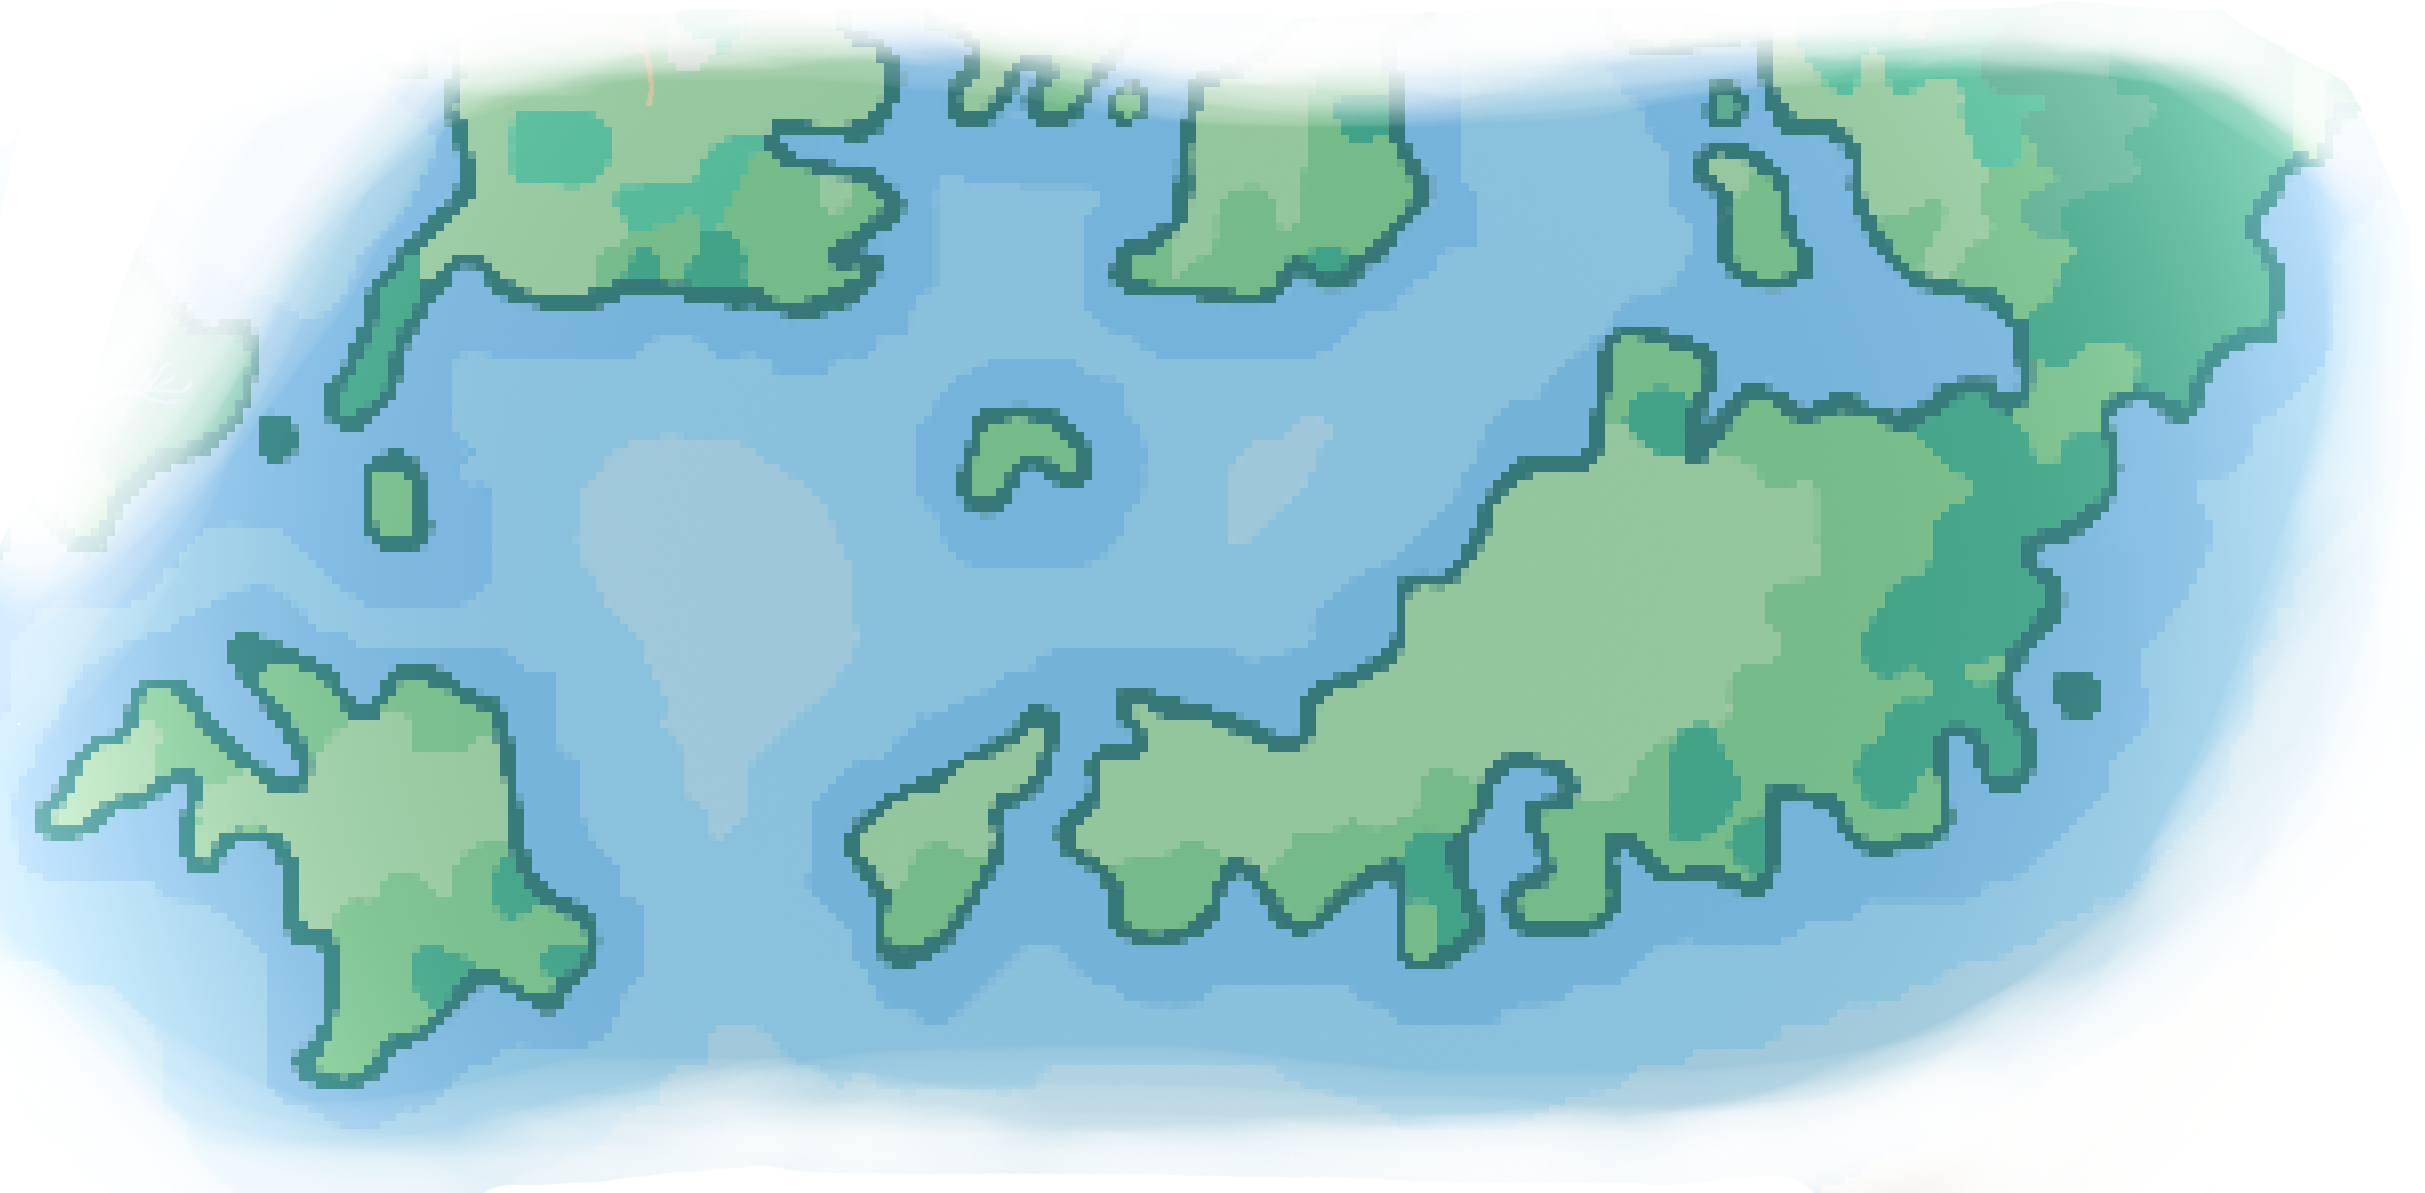
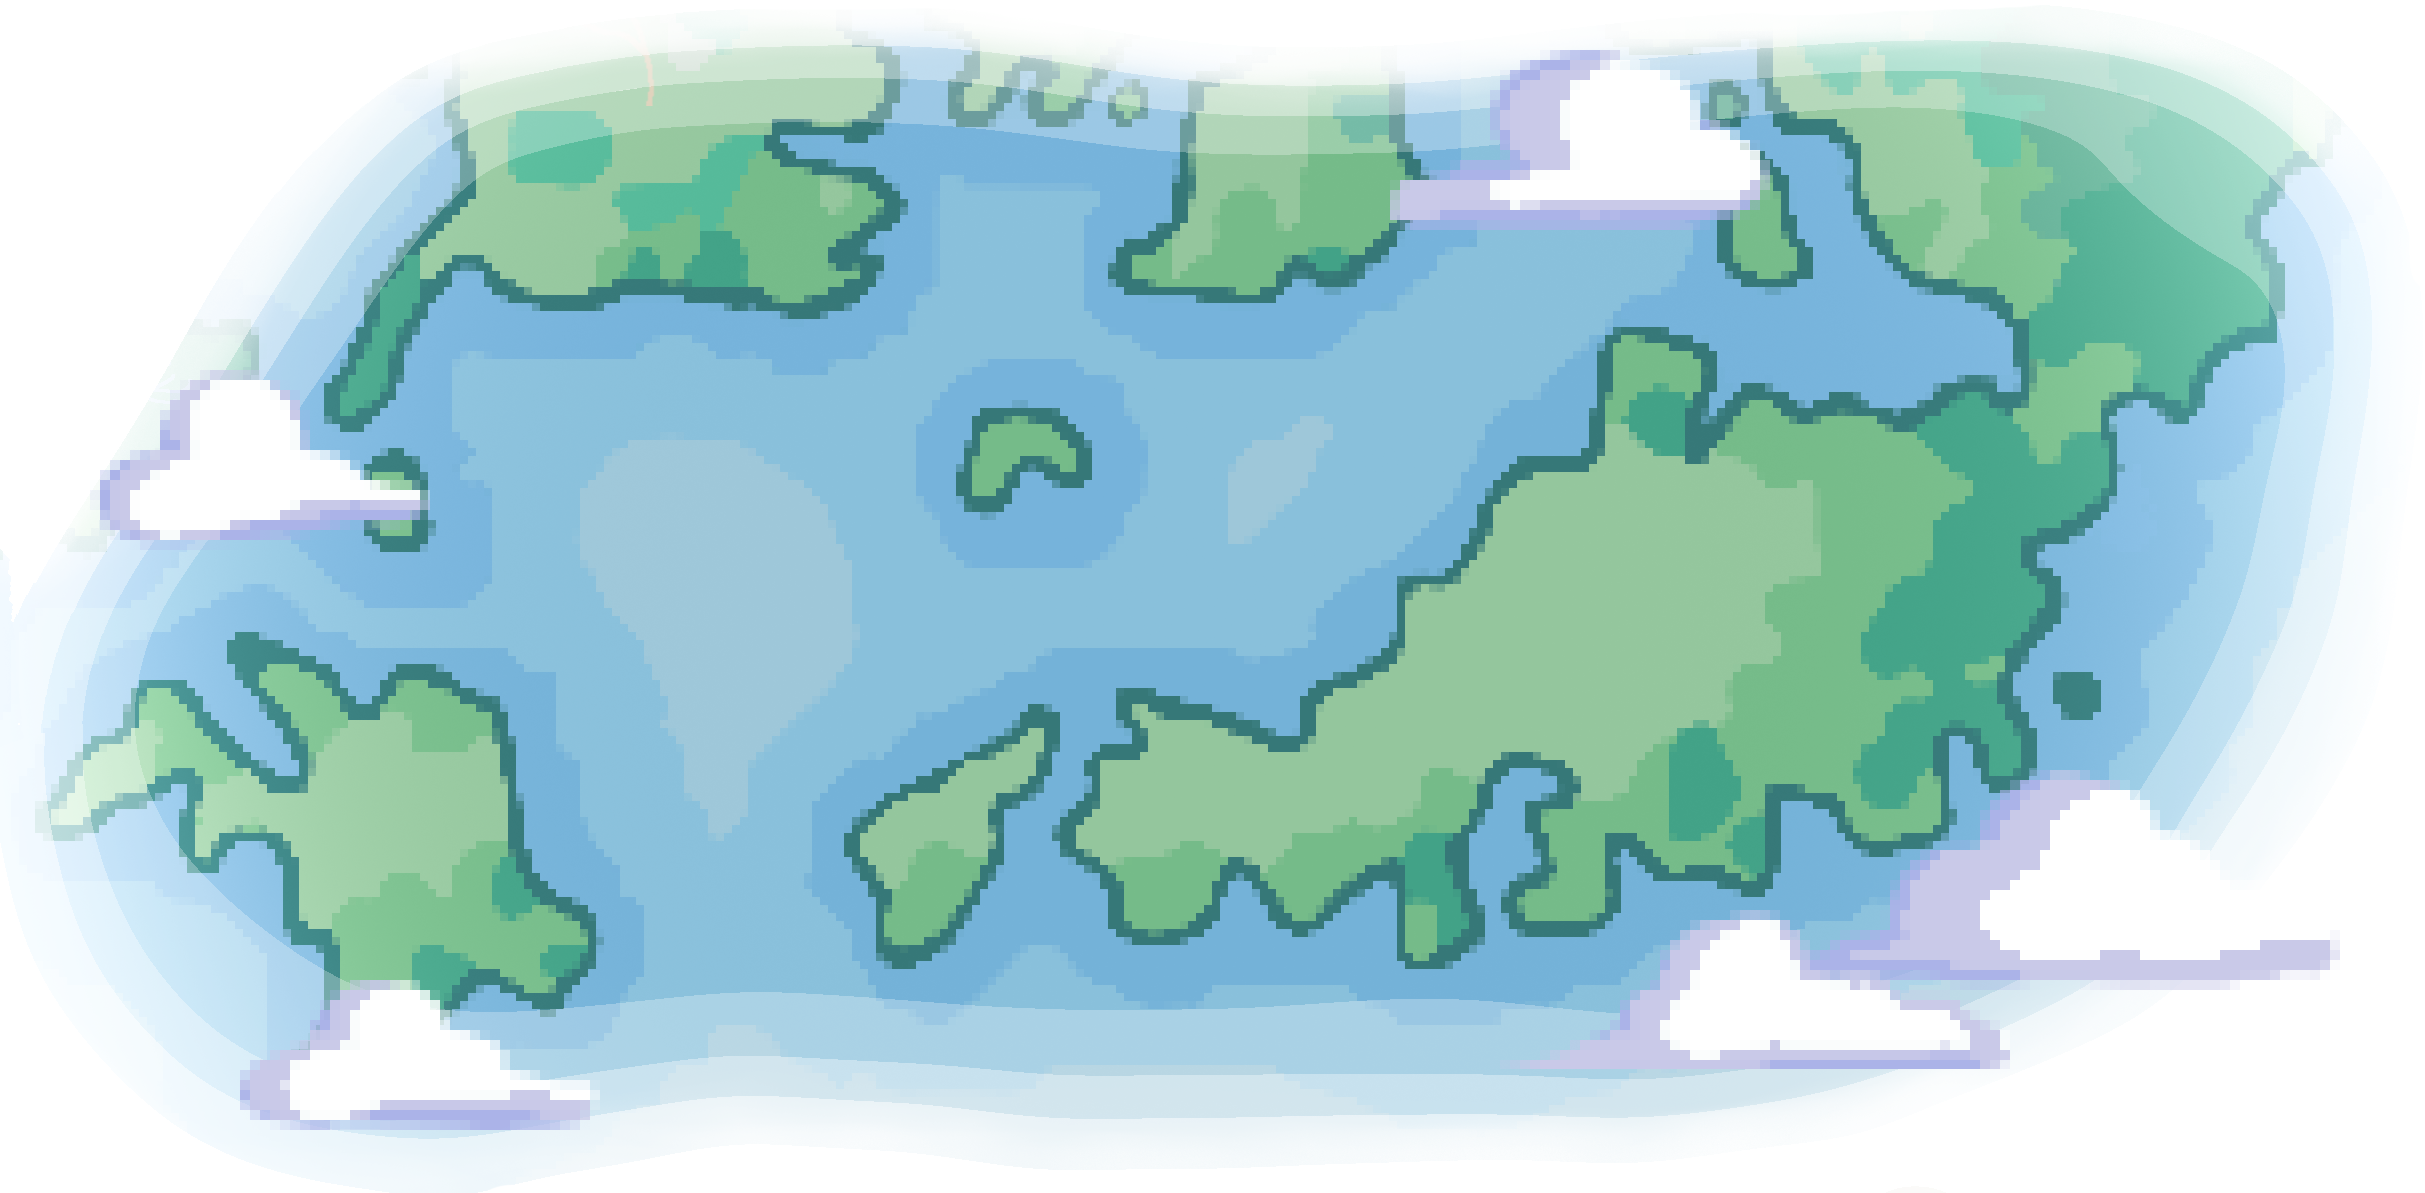
telius map update

Changed region(s): [[0.0, 0.4962, 0.9588, 0.9614], [0.0309, 0.031, 0.9588, 0.4652]]

diff --git a/telius/style.css b/telius/style.css
@@ -5,8 +5,9 @@
 }
 
 main{
-    /* background-image: url("/map/assets/clouds/foggy-clouds.webp"); */
-    /* background-color: aqua; */
+    background-image: url("/map/assets/clouds_static.png");
+    backdrop-filter: opacity;
+    background-color: aqua;
     background-size: cover;
 }
 
@@ -15,6 +16,7 @@ main{
     background-size: contain;
     background-repeat: no-repeat;
     background-position: center;
+    transform: scale(1.8);
 
     aspect-ratio: 654/486;
     height: 100%;
